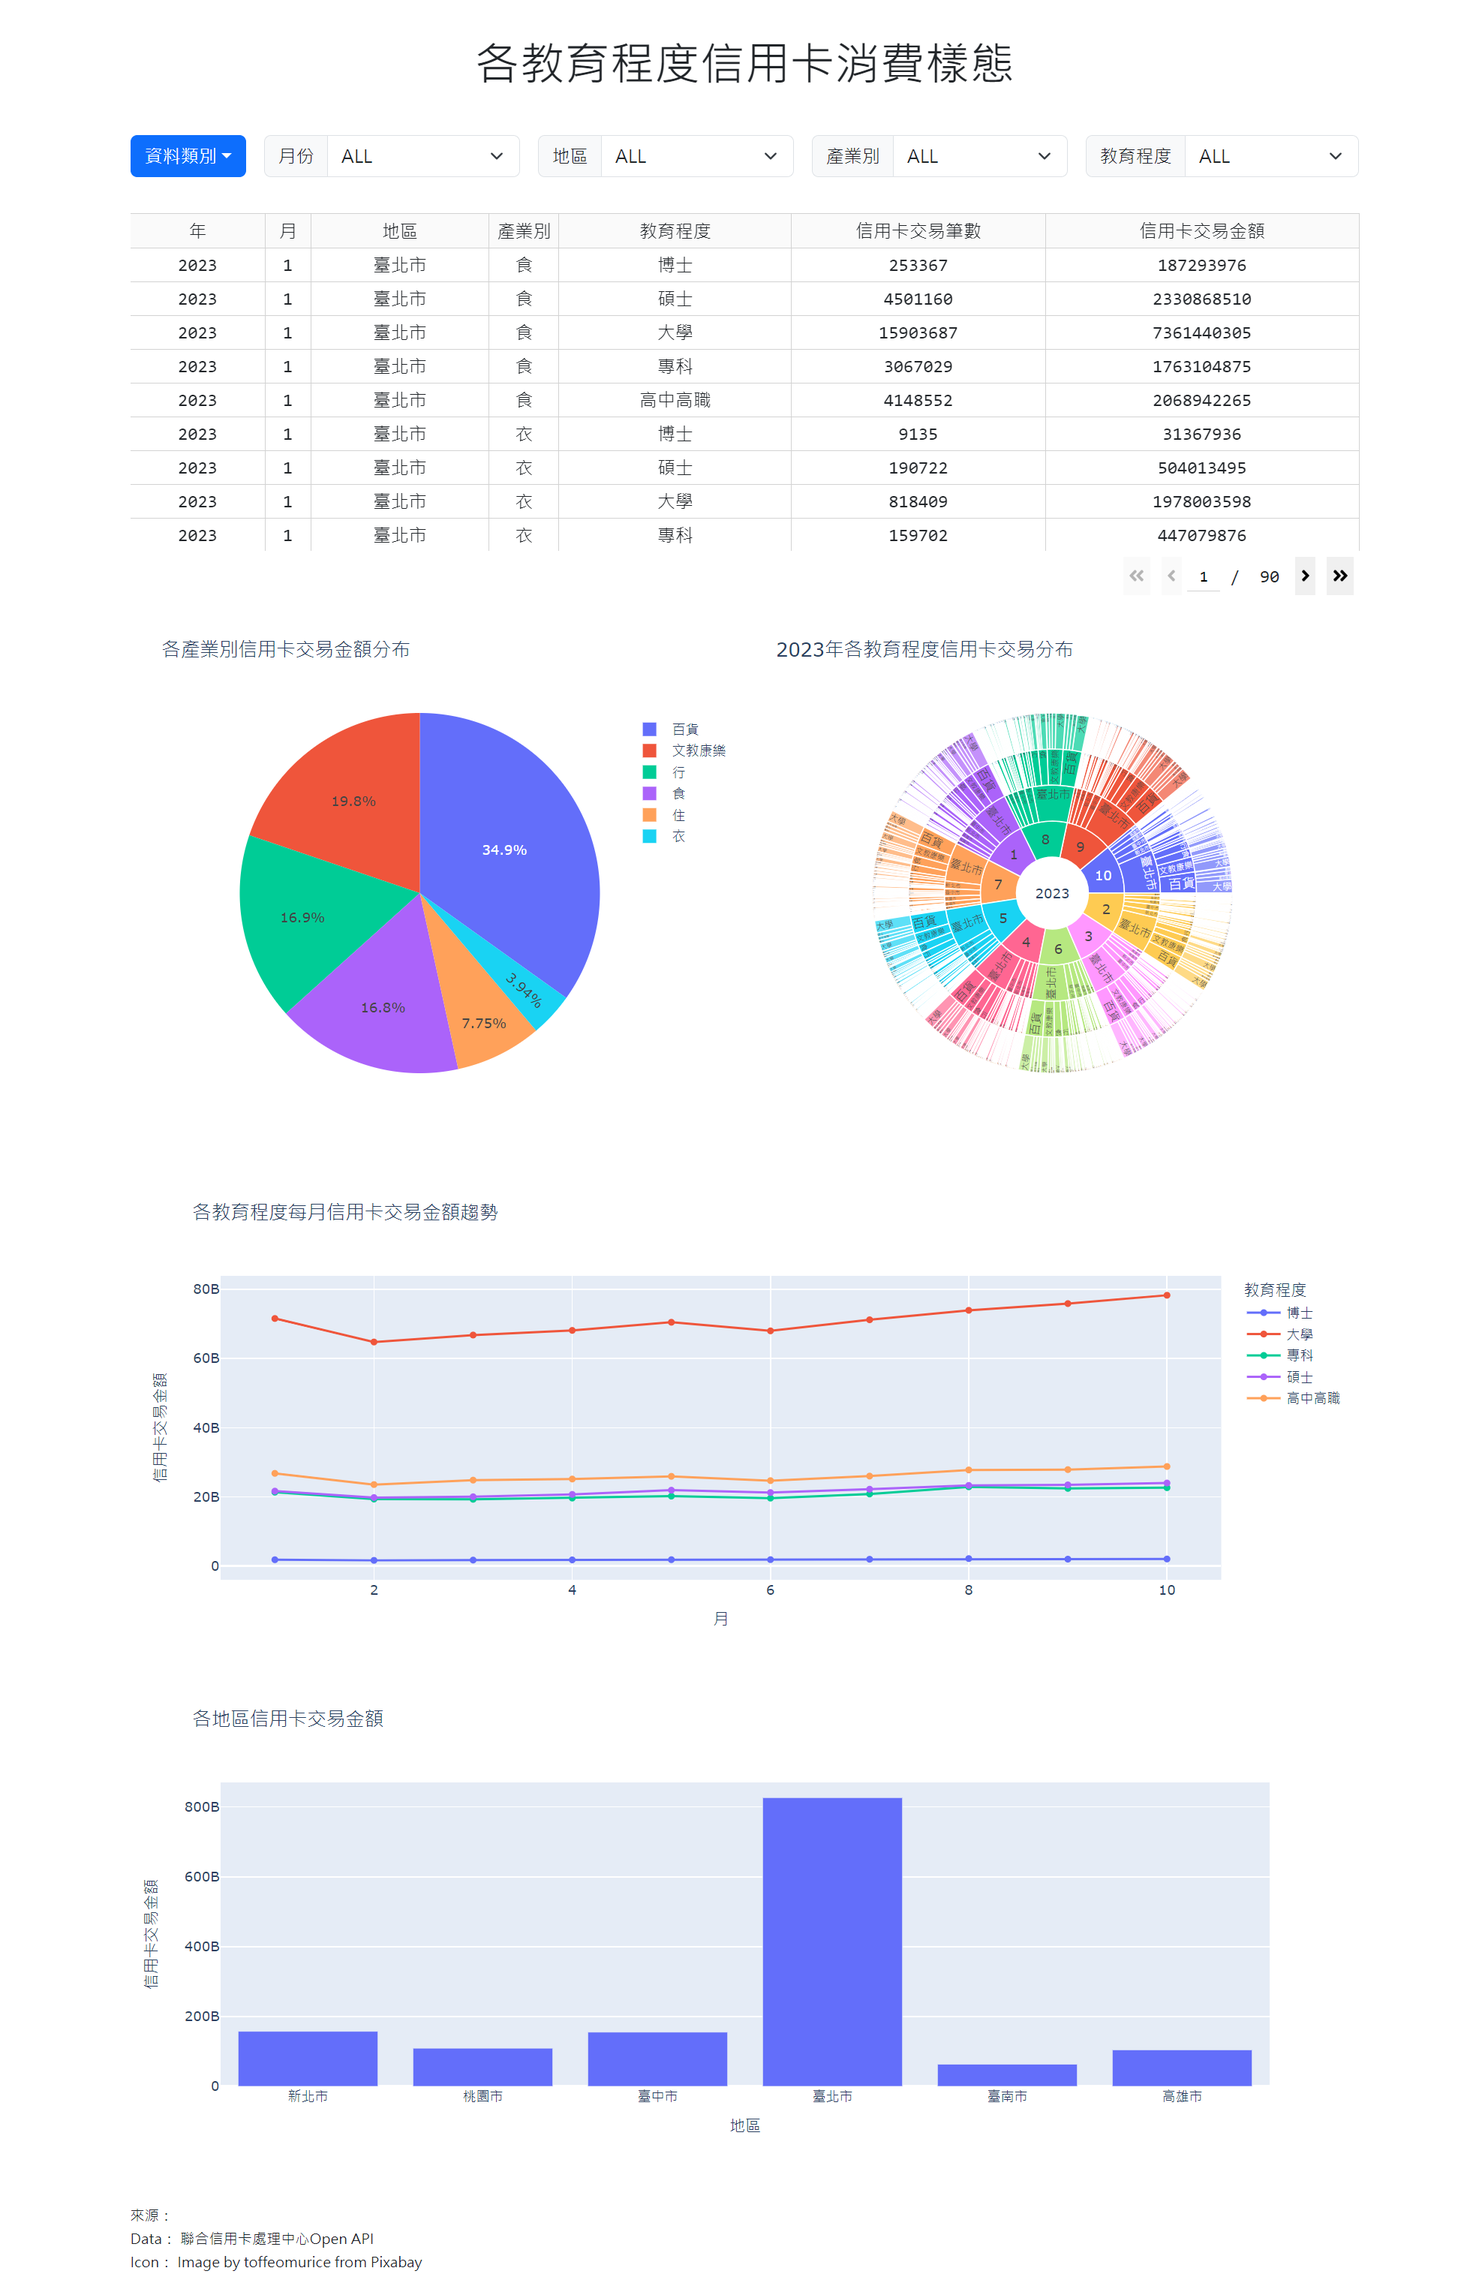
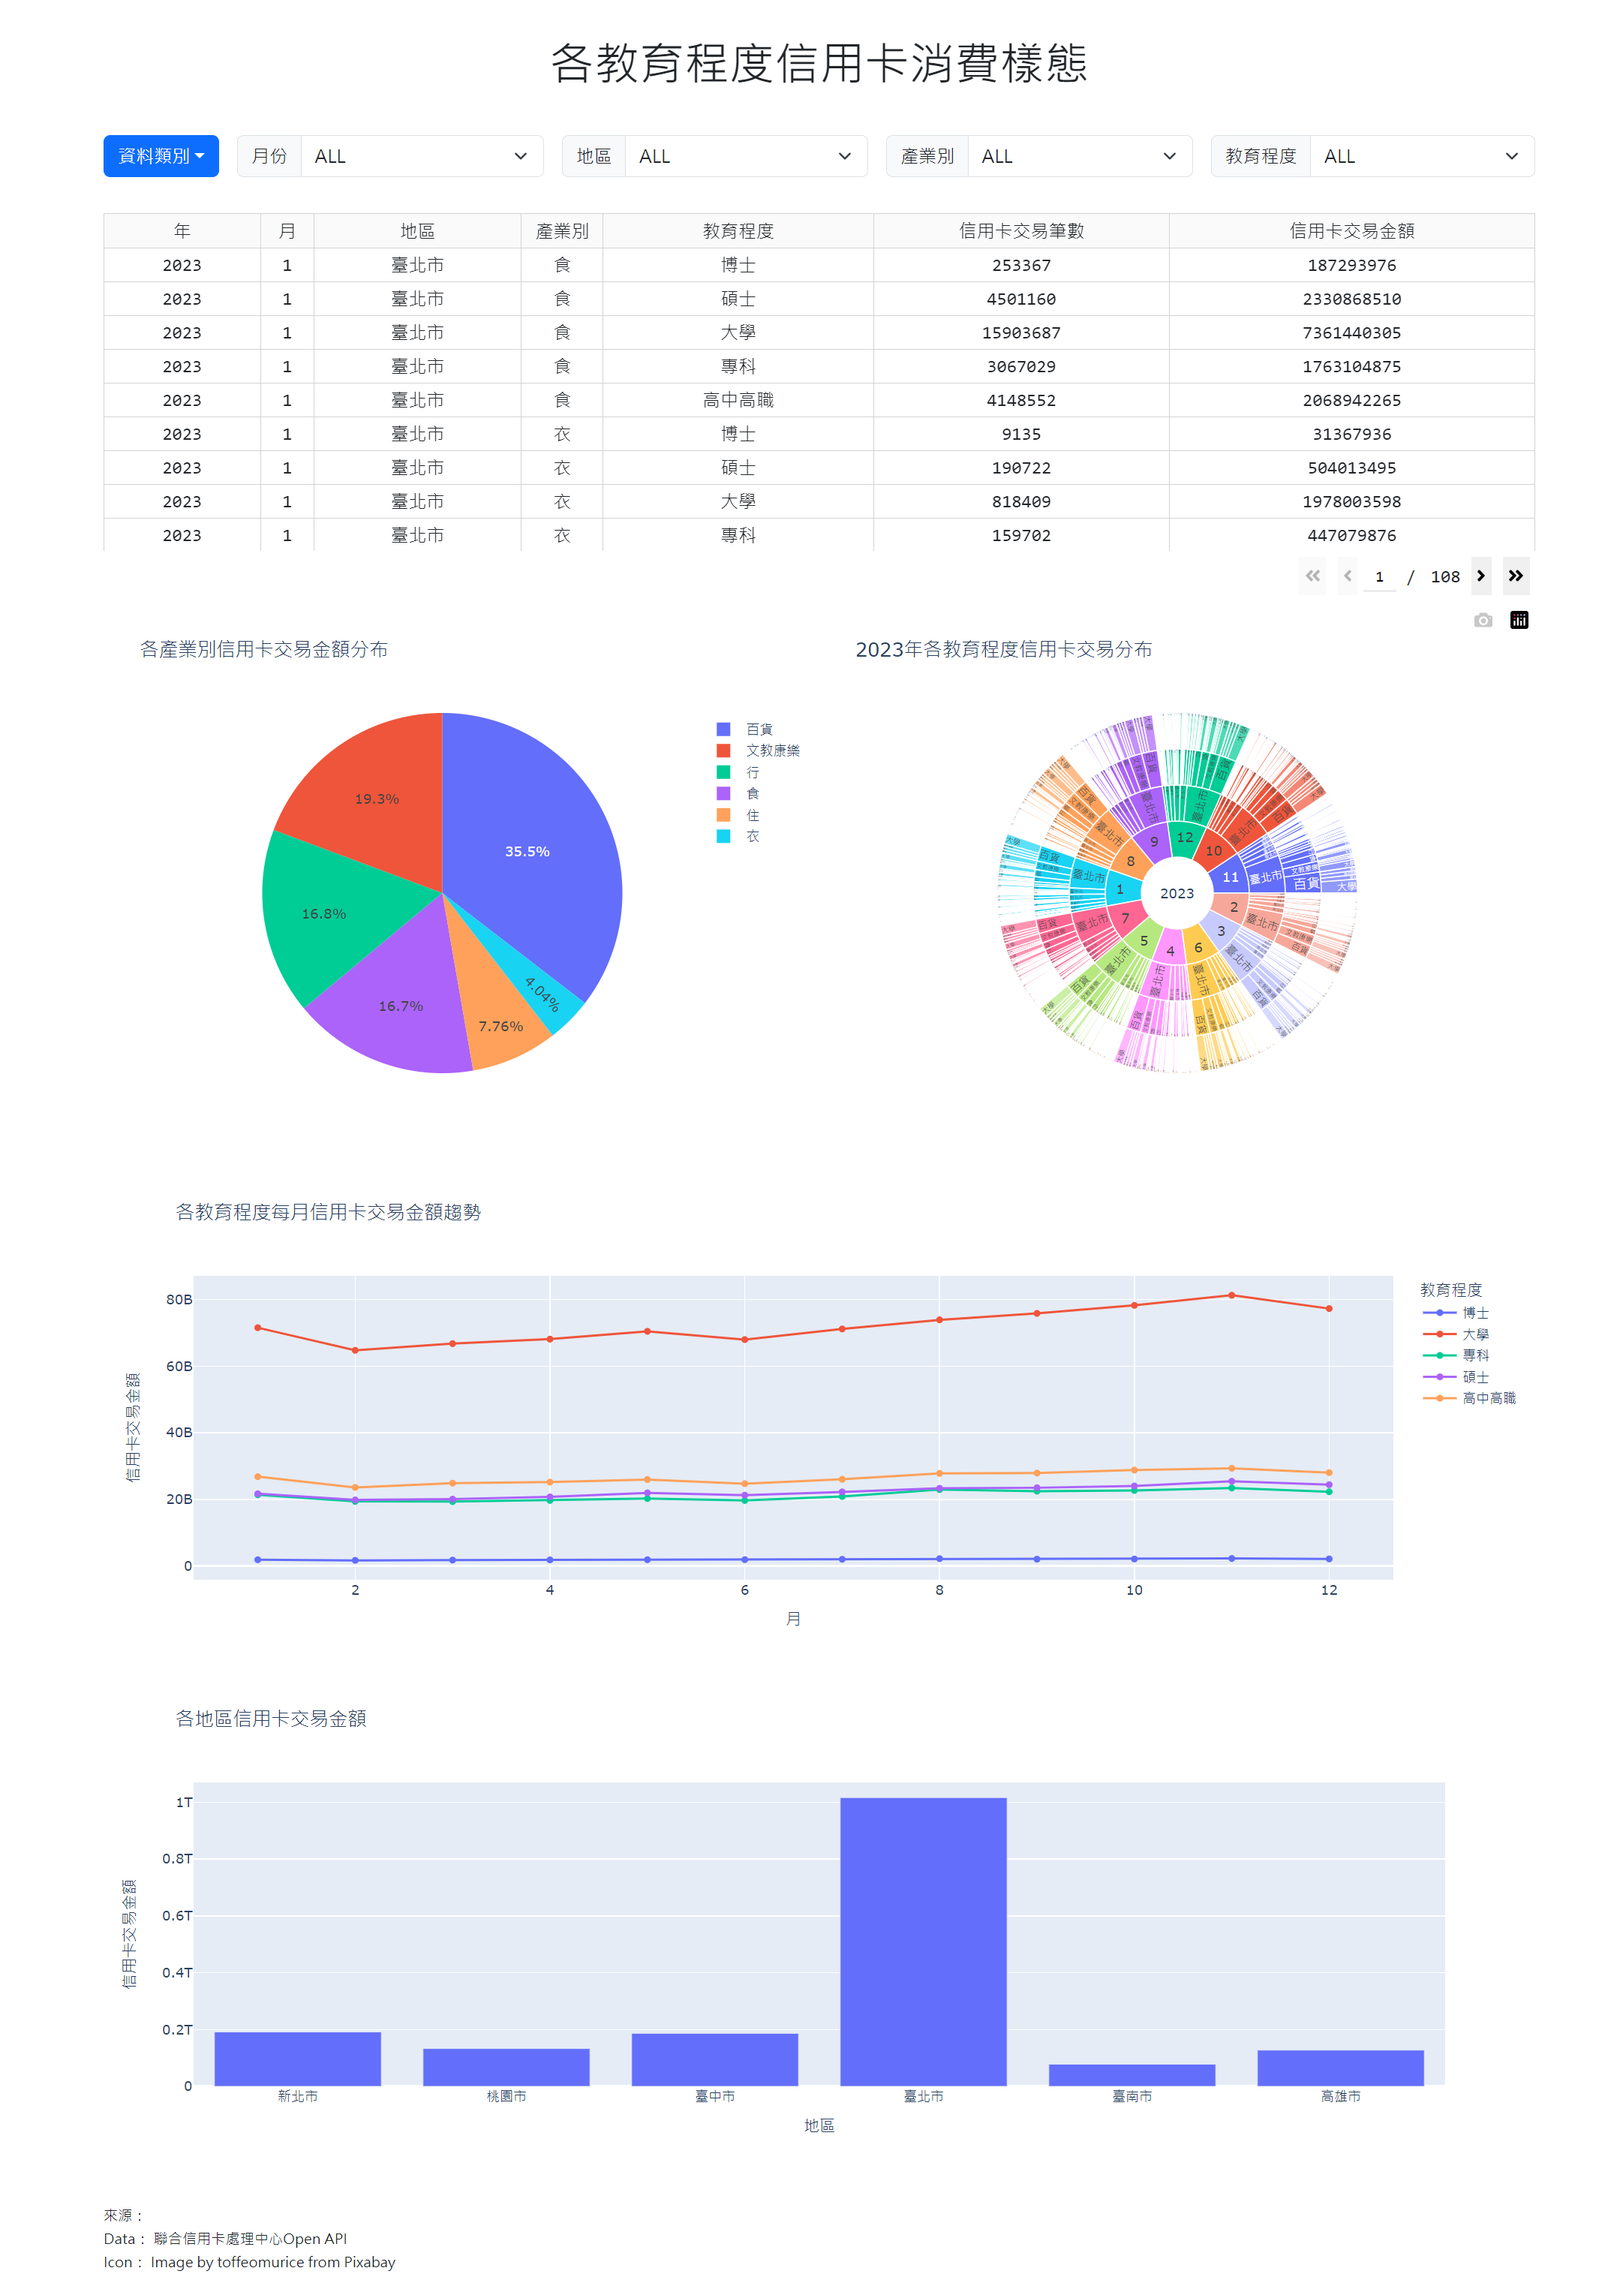
modify

diff --git a/flask/README.md b/flask/README.md
@@ -25,9 +25,10 @@ GitHub：https://github.com/xuanlll17/creditcard/blob/main/flask/README.md
 ![首頁](./image/首頁.png)  
 
 依不同需求，選擇相應資料：
+![說明](./image/說明.png)
 1. 資料類別 [連結到Dash]：職業類別 | 年收入 | 教育程度類別 | 性別 | 年齡層
 
-2. 月份 [目前資料更新至9月]：1－10月 | ALL
+2. 月份：1－12月 | ALL
 
 3. 地區 [六都]：臺北市 | 新北市 | 桃園市 | 臺中市 | 臺南市 | 高雄市 | ALL
 
